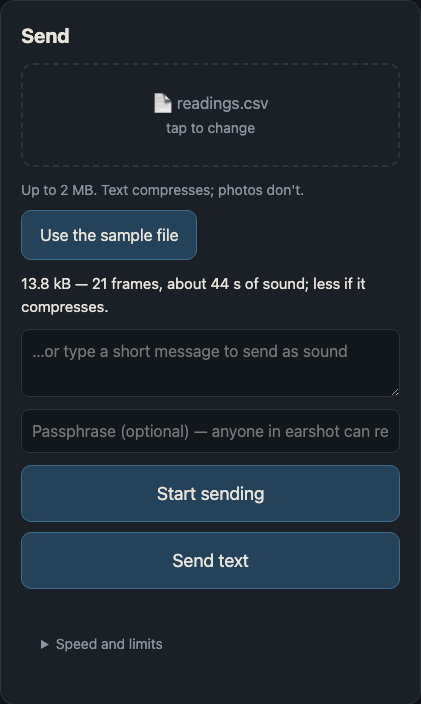
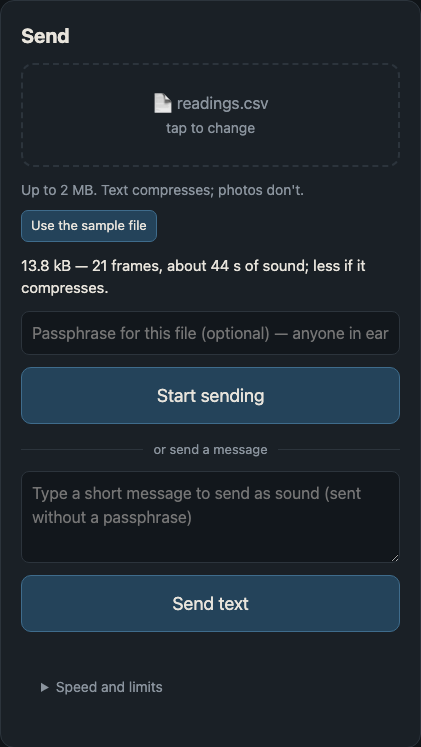
Send card: passphrase belongs to the file; smaller sample button
The passphrase field moves above Start sending and protects files only -
a typed message now goes out plain, and both placeholders say so. Use
the sample file is a small button beside the size note instead of a
full-width one. Product guide regenerated; prose for the passphrase
step, the message step and the control order updated.

diff --git a/index.html b/index.html
@@ -26,6 +26,7 @@
   .drop input { display:none; }
   button { font: inherit; background:#24435a; color:var(--fg); border:1px solid #3f6c8c; border-radius:10px; padding:12px 18px; cursor:pointer; }
   button.big { width:100%; font-size:18px; padding:14px; }
+  button.small { font-size:13px; padding:5px 9px; border-radius:7px; }
   button:disabled { opacity:.4; cursor:default; }
   button.stop { background:#5a2424; border-color:#8c3f3f; }
   .row { display:flex; gap:10px; align-items:center; flex-wrap:wrap; margin:12px 0 0; }
@@ -66,17 +67,17 @@
     </label>
     <div class="row" style="justify-content:space-between">
       <span class="hint">Up to 2 MB. Text compresses; photos don't.</span>
-      <button id="sample">Use the sample file</button>
+      <button class="small" id="sample">Use the sample file</button>
     </div>
     <div class="fileinfo" id="fileInfo"></div>
+    <div class="row"><input type="password" id="txPass" placeholder="Passphrase for this file (optional) — anyone in earshot can receive without one" autocomplete="off"></div>
     <div class="row">
       <button class="big" id="send" disabled>Start sending</button>
       <button class="big stop" id="stopSend" style="display:none">Stop</button>
     </div>
     <div class="or"><span>or send a message</span></div>
-    <div class="row"><textarea id="txText" rows="3" placeholder="Type a short message to send as sound"></textarea></div>
+    <div class="row"><textarea id="txText" rows="3" placeholder="Type a short message to send as sound (sent without a passphrase)"></textarea></div>
     <div class="row"><button class="big" id="sendText">Send text</button></div>
-    <div class="row"><input type="password" id="txPass" placeholder="Passphrase (optional, for files and messages alike)" autocomplete="off"></div>
     <progress id="txProgress" value="0" max="1" style="display:none"></progress>
     <div class="status" id="txStatus"></div>
     <details class="speed">

diff --git a/earshot.js b/earshot.js
@@ -93,12 +93,14 @@
   ui.drop.addEventListener('dragleave', () => ui.drop.classList.remove('hover'));
   ui.drop.addEventListener('drop', (e) => { e.preventDefault(); ui.drop.classList.remove('hover'); pickFile(e.dataTransfer.files[0]); });
 
-  async function startSend() {
+  // The passphrase field belongs to the file group; a typed message is sent
+  // plain, which is what its placeholder says.
+  async function startSend(opts) {
     const c = await ensureCtx();
     ui.send.disabled = true;
     ui.txStatus.textContent = 'preparing…';
     const bytes = new Uint8Array(await tx.file.arrayBuffer());
-    const pass = ui.txPass.value.trim();
+    const pass = (opts && opts.plain) ? '' : ui.txPass.value.trim();
     const prep = await Air.prepare(bytes, tx.file.name, pass ? { passphrase: pass } : undefined);
     tx.sender = new Air.Sender(prep);
     const blocks = Math.ceil(prep.payload.length / Fountain.BLOCK) || 1;
@@ -159,7 +161,7 @@
     tx.file = new File([new TextEncoder().encode(text)], 'message.txt', { type: 'text/plain' });
     ui.dropText.innerHTML = '💬 message.txt<br><span class="hint">from the text box</span>';
     ui.fileInfo.textContent = `${fmtBytes(tx.file.size)} — ${framesFor(tx.file.size)} frames, about ${fmtTime(secondsFor(tx.file.size))} of sound.`;
-    startSend().catch((e) => { ui.txStatus.textContent = e.message; ui.send.disabled = false; });
+    startSend({ plain: true }).catch((e) => { ui.txStatus.textContent = e.message; ui.send.disabled = false; });
   });
 
   // --------------------------------------------------------------- receive

diff --git a/docs/GUIDE.md b/docs/GUIDE.md
@@ -98,8 +98,8 @@ If the sender set a passphrase, the result box asks for it before
 
    ![Too big](screenshots/product/too-big.png)
 
-2. Optionally type a passphrase in the field at the bottom of the card,
-   under **Send text**; it applies to files and messages alike. See
+2. Optionally type a passphrase in the field just above **Start
+   sending**. It protects the file; typed messages go out plain. See
    [Passphrase](#passphrase).
 3. Wait until the other device says it is listening, then press
    **Start sending**. The status says `preparing…` for a moment
@@ -118,8 +118,9 @@ If the sender set a passphrase, the result box asks for it before
 6. To send a message instead of a file, type it in the box under the file
    area and press **Send text**. It travels as a small file called
    `message.txt` and the receiver shows it on screen as soon as it lands,
-   with the same **Save file** button underneath. A passphrase applies to
-   messages too.
+   with the same **Save file** button underneath. Messages are sent without
+   a passphrase - anyone in earshot can read one - so put anything private
+   in a file instead.
 
    ![A message being sent](screenshots/product/send-text.png)
 
@@ -240,10 +241,10 @@ thing to attach to a bug report; see [LAB.md](LAB.md).
 ## Every control
 
 Send card, top to bottom: **Choose a file** (or drop one on the box),
-**Use the sample file** beside the size note, **Start sending**, which
-becomes **Stop** while sending; then an "or send a message" divider, the
-message box and **Send text**; then the passphrase field, the progress bar,
-the status line, and **Speed and limits** folded underneath.
+**Use the sample file** beside the size note, the passphrase field,
+**Start sending**, which becomes **Stop** while sending; then an "or send a
+message" divider, the message box and **Send text**; then the progress
+bar, the status line, and **Speed and limits** folded underneath.
 
 Receive card: **Listen**, which becomes **Stop listening** while the
 microphone is open, the progress bar and status line, and the result box
